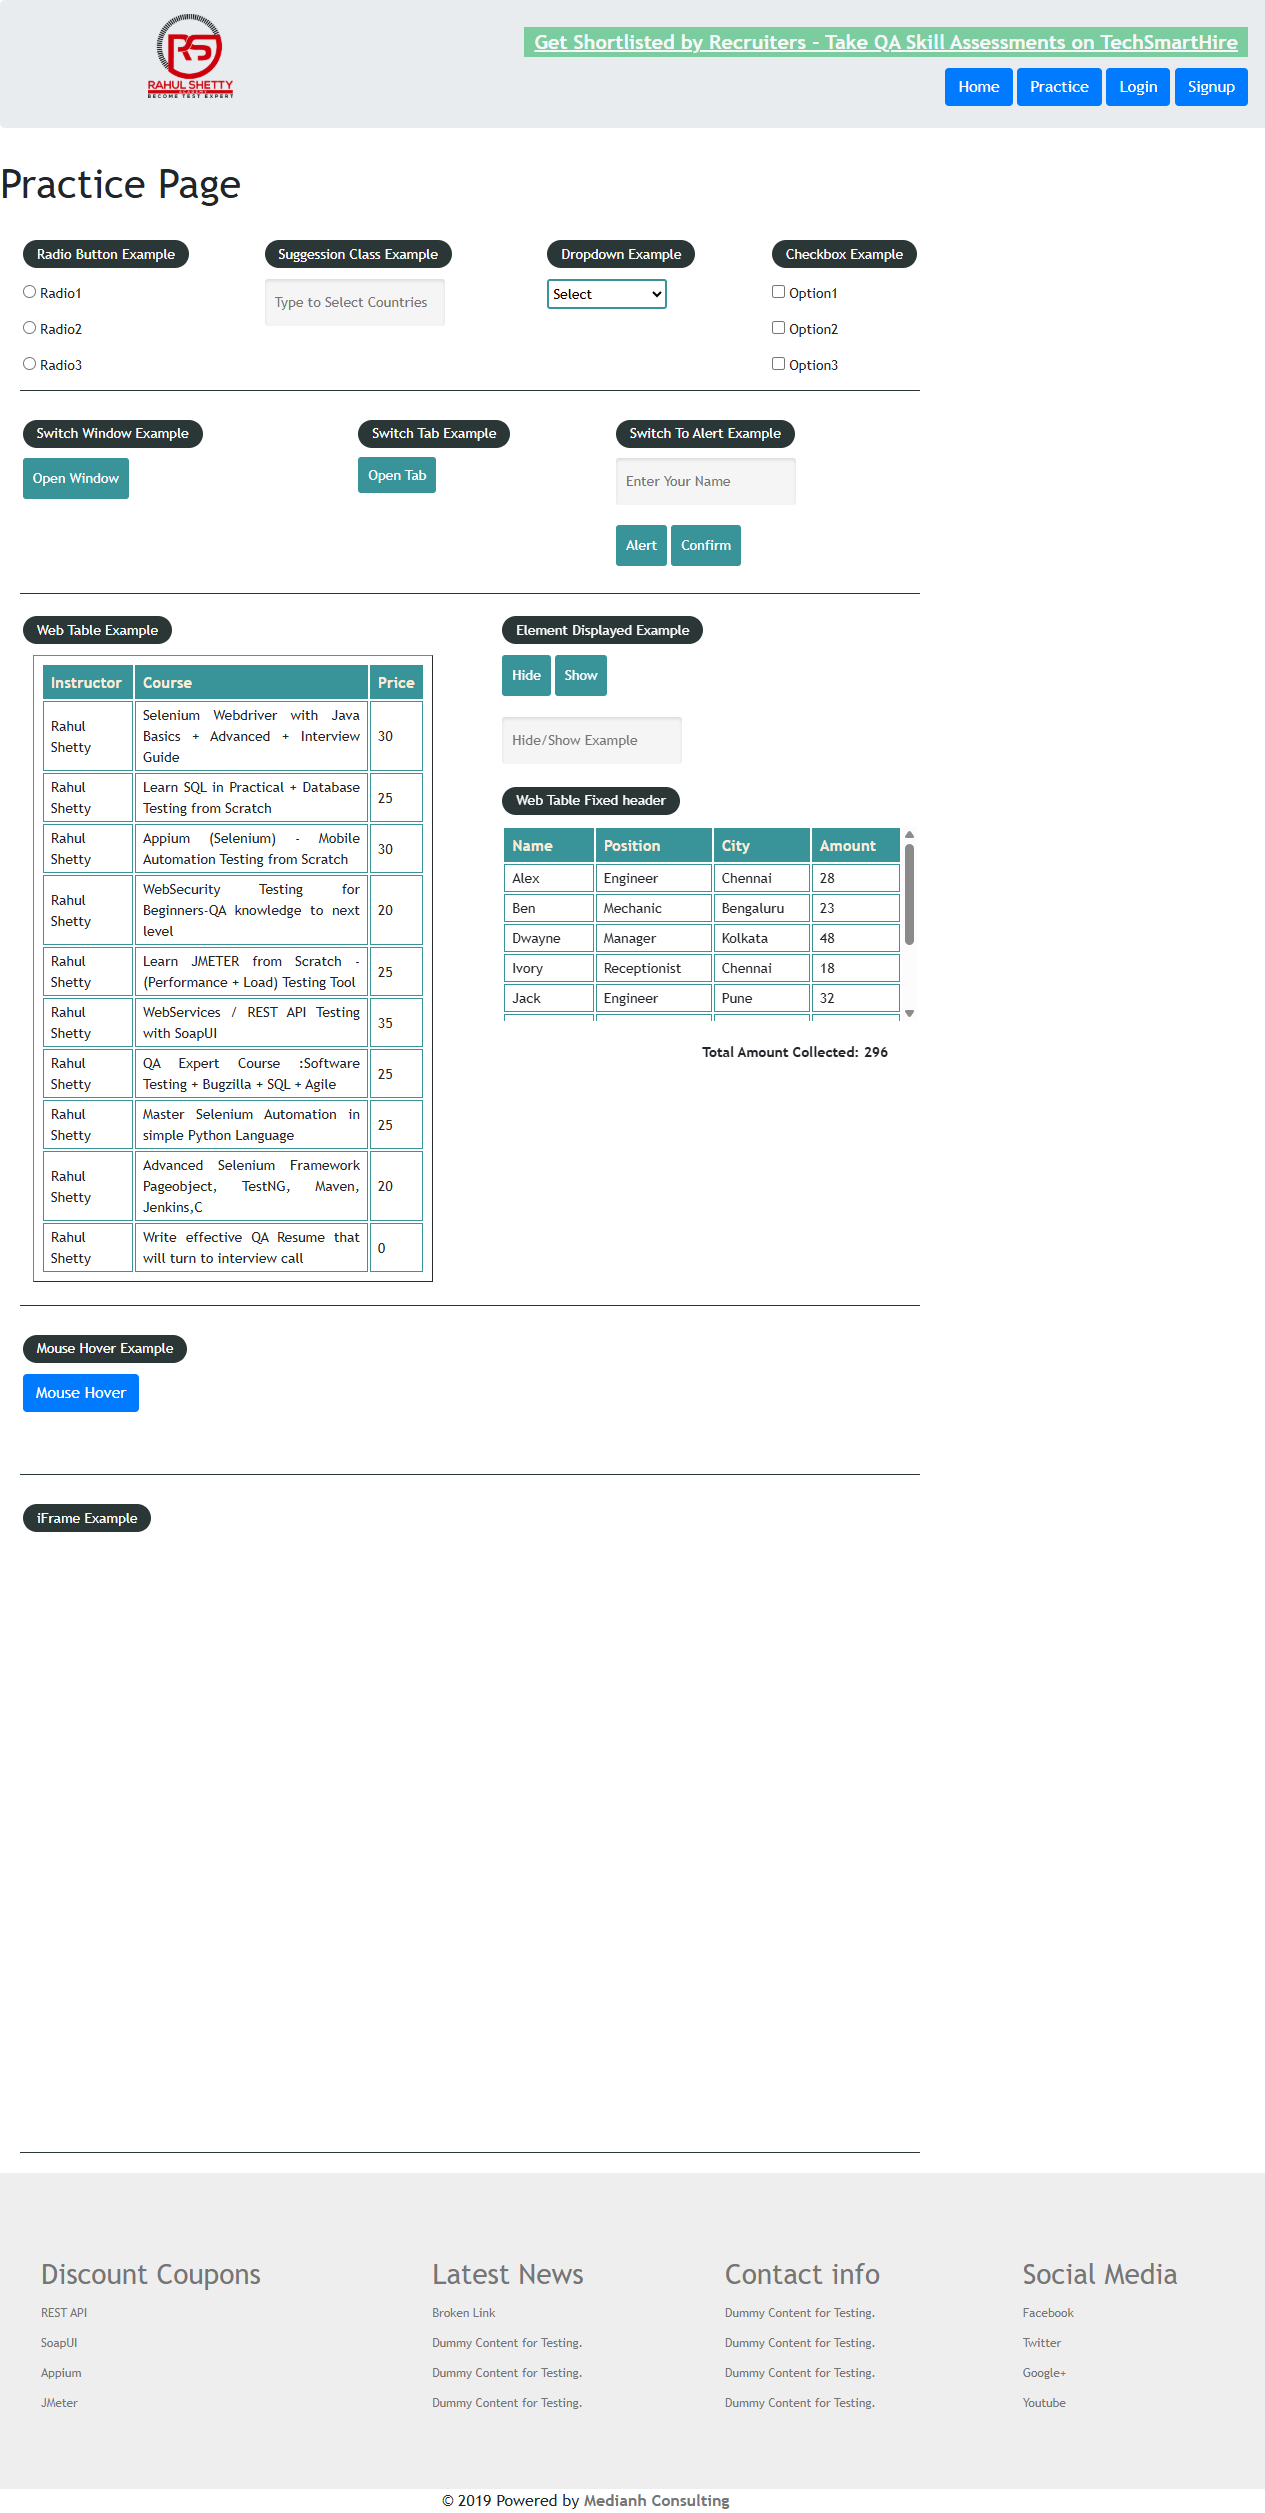
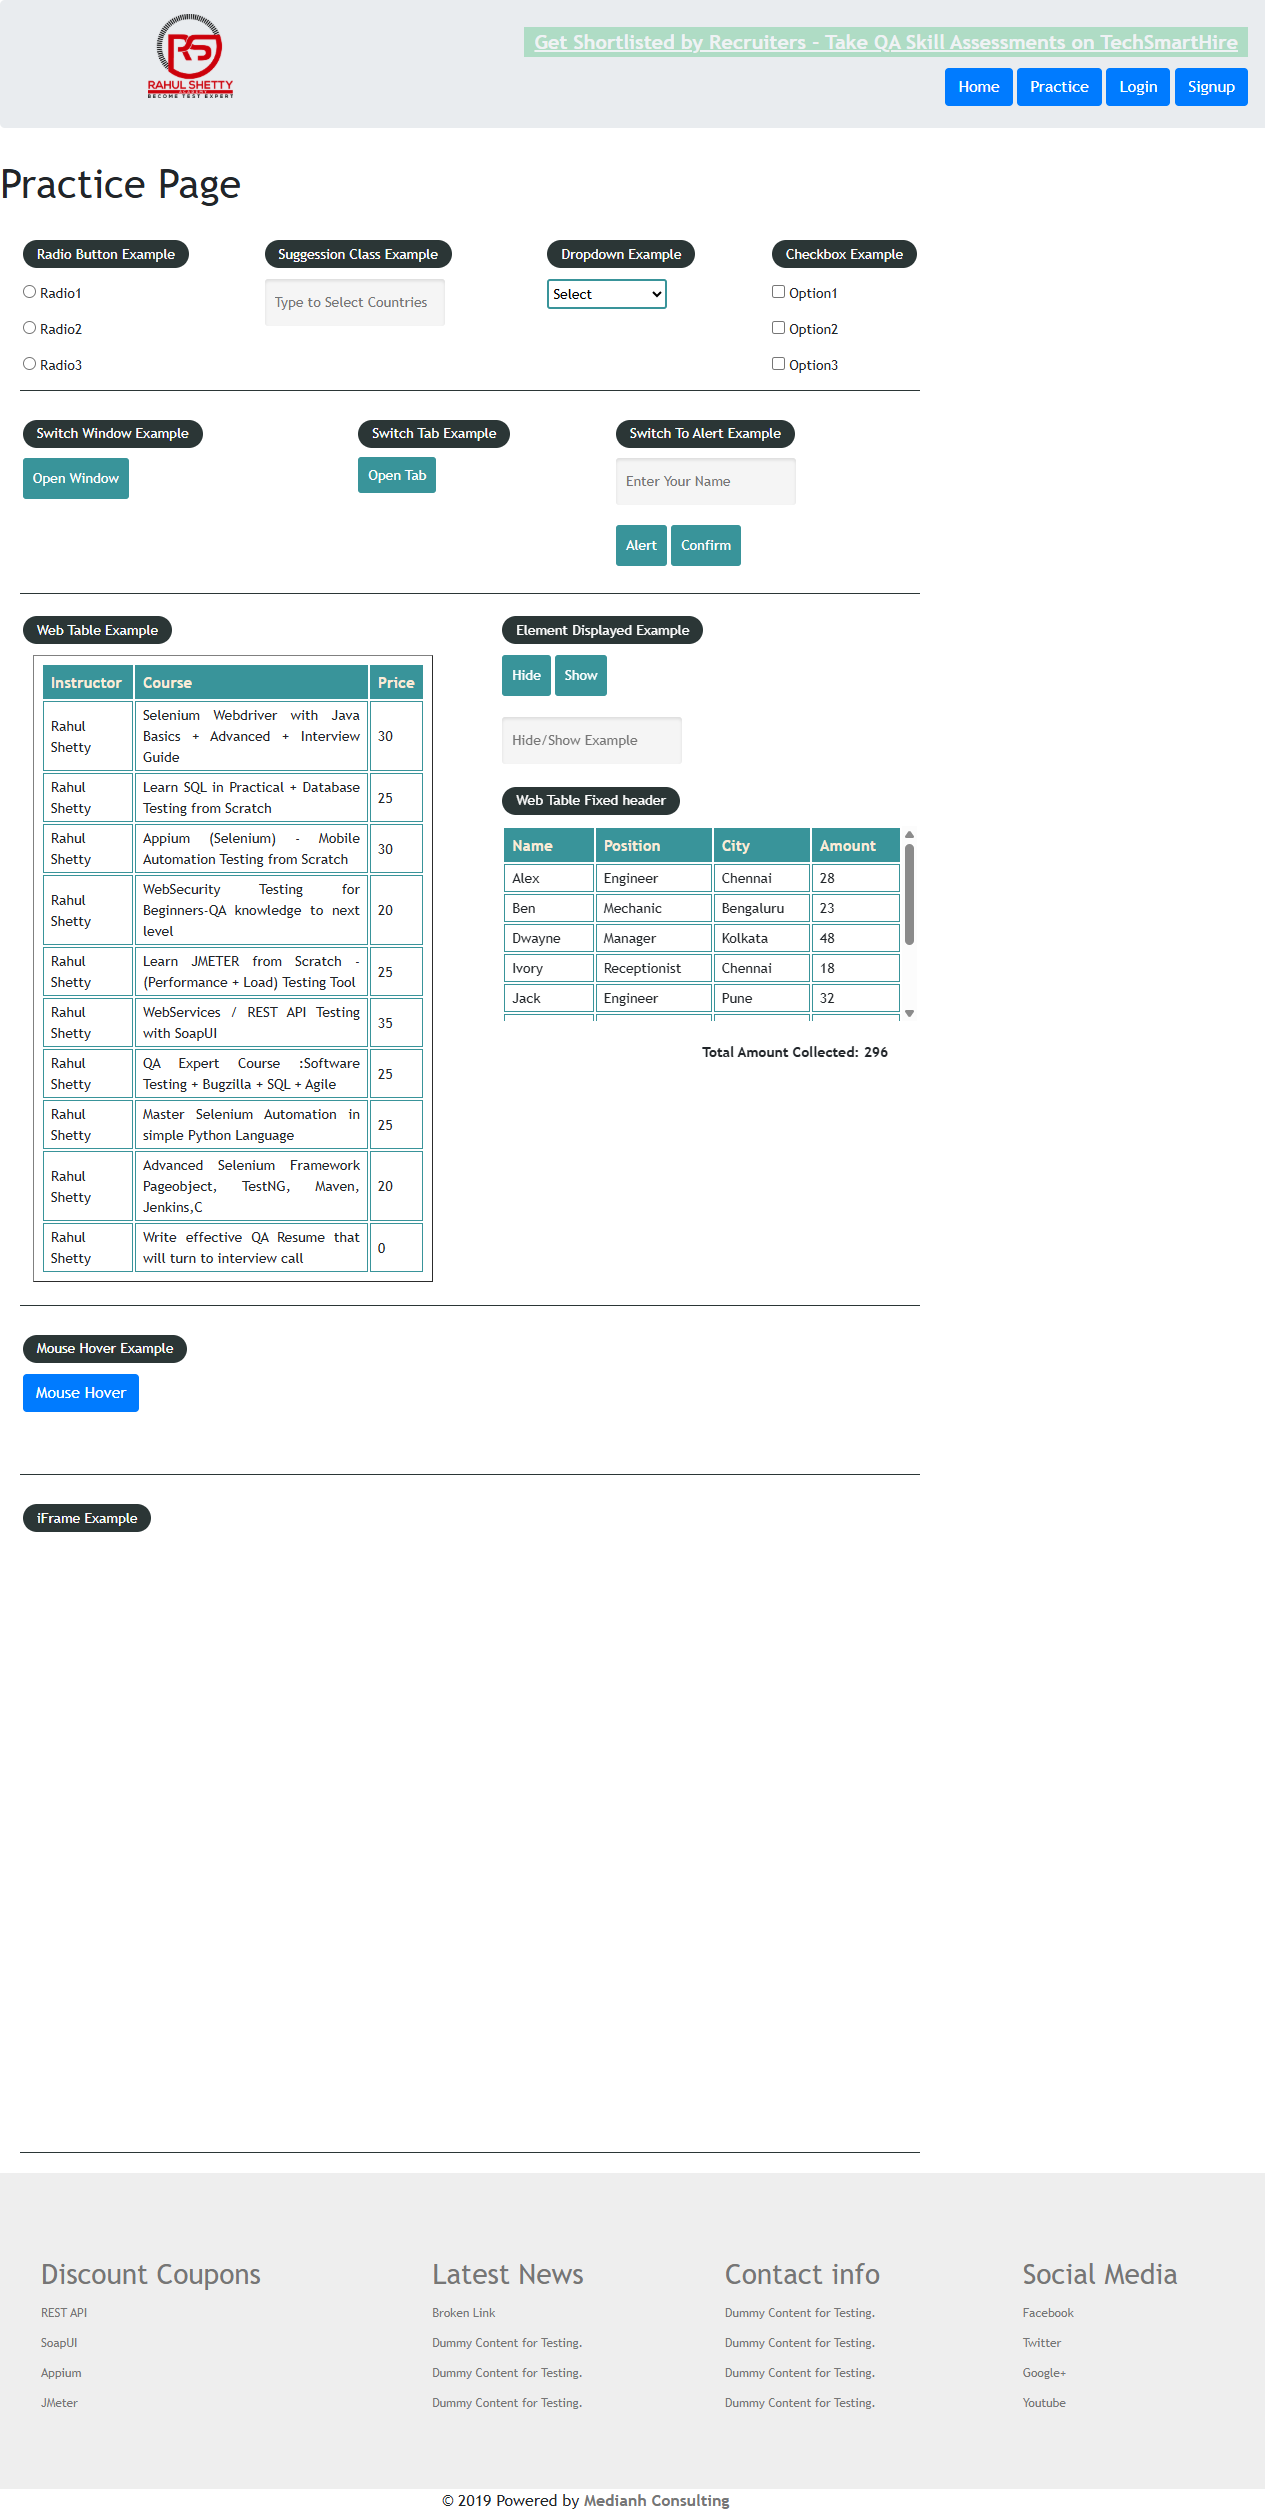
running tests parallely from the same file by extending test option behaviour

Changed region(s): [[0.4008, 0.0, 0.9866, 0.031]]

diff --git a/playwright.config1.js b/playwright.config1.js
@@ -1,4 +1,3 @@
-
 /* to run tjis config file 
 use this command in terminal to run 
 -> npx playwright test ./tests/ClientAppPO.spec.js --config playwright.config1.js --project=safari */
@@ -10,18 +9,19 @@ const { devices } = require("playwright/test");
  * @see https://playwright.dev/docs/test-configuration
  */
 const config = {
-  testDir: "./tests",
-  reporter: "html",
-  timeout: 30 * 1000,
+  testDir: "./tests", // Folder containing all Playwright test files
+  retries:1, // Retry failed tests once
+  reporter: "html", // Generate HTML report after test execution
+  timeout: 30 * 1000, // Maximum time allowed for each test (30 seconds)
   expect: {
-    timeout: 5 * 1000,
+    timeout: 5 * 1000, // Maximum wait time for Playwright assertions
   },
   projects: [
     {
-      name: "safari",
+      name: "safari", // Project name
       use: {
-        browserName: "webkit",
-        headless: true,
+        browserName: "webkit", // Launch WebKit browser (Safari)
+        headless: true, // Run browser in headless mode (without UI)
         trace: "on",  // Records a trace for every test execution
         screenshot: "only-on-failure", // Capture screenshot only when a test fails
         video: "retain-on-failure",  // Record every test, but keep videos only for failed tests
@@ -29,17 +29,17 @@ const config = {
       },
     },
     {
-      name: "chrome",
+      name: "chrome", // Project name
       use: {
-        browserName: "chromium",
-        headless: false,
-        trace: "on",
-        video: "retain-on-failure",
-        screenshot: "only-on-failure",
-        video: "retain-on-failure",
-        ignoreHttpsErros:true, // Ignores SSL/HTTPS certificate errors
-        Permissions:['geolocation'], 
-        viewport : {width:720,height:720} // Overrides the default device viewport size
+        browserName: "chromium", // Launch Chromium browser
+        headless: true, // Run browser with UI
+        trace: "on", // Records a trace for every test execution
+        video: "retain-on-failure", // Record every test, but keep videos only for failed tests
+        screenshot: "only-on-failure", // Capture screenshot only when a test fails
+        video: "retain-on-failure", // Record every test, but keep videos only for failed tests
+        ignoreHttpsErros:true, // Ignore SSL/HTTPS certificate errors
+        Permissions:['geolocation'], // Grant geolocation permission
+        // viewport : {width:720,height:720} // Override the default browser/device viewport size
       },
     },
   ],

diff --git a/tests/MoreValidations.spec.js b/tests/MoreValidations.spec.js
@@ -1,5 +1,18 @@
 const { test, expect } = require('@playwright/test')
 
+/* test.describe.configure({ mode: "parallel" }) instructs Playwright 
+to run all tests within the current file or describe block concurrently 
+instead of sequentially. Each test runs in its own isolated browser context 
+and page, which reduces overall execution time. It should only be used 
+when tests are independent and do not rely on shared state or execution order. */
+
+/* test.describe.configure({ mode: "serial" }) configures all tests 
+in the current describe block or file to run sequentially. If any 
+test fails, Playwright skips the remaining tests in that serial group. 
+It's useful when tests have dependencies, such as multi-step business 
+workflows where each test relies on the successful completion of the previous one. */
+
+test.describe.configure({mode:"parallel"})
 // Test: handling popups and basic navigation/visibility interactions
 test('handling popups', async ({ page }) => {
     // Navigate to a practice page that contains UI controls we'll use
@@ -30,10 +43,13 @@ test('handling popups', async ({ page }) => {
     // Demonstrate hovering over an element (useful for revealing menus/tooltips)
     await page.locator('#mousehover').hover()
 
-    const framePage = page.frameLocator('[name="iframe-name"]')
+    // const framePage = page.frameLocator('[name="iframe-name"]')
 
-    //  await framePage.locator("a[href*='lifetime-access']:visible").click()
-    await framePage.locator("a[href*='lifetime-access']").first().click()
+    // //  await framePage.locator("a[href*='lifetime-access']:visible").click()
+    // await framePage.locator("a[href*='lifetime-access']").first().click()
+    const framePage = page.frameLocator('[name="iframe-name"]');
+
+    await framePage.locator("a[href*='lifetime-access']:visible").click();
      const text = await framePage.locator('.text h2').textContent()
      console.log("number of happy subscribers: "+ text.split(" ")[1])
 })

diff --git a/tests/ClientAppPO.spec.js b/tests/ClientAppPO.spec.js
@@ -37,7 +37,7 @@ for (const data of dataset) {
   });
 }
 
-customtest.only('@Webst Client App login', async ({ page, testDataForOrder }) => {
+customtest('@Webst Client App login', async ({ page, testDataForOrder }) => {
     const poManager = new POManager(page);
 
     // await page.route("**/*.{jpg,png,jpeg}", route=>route.abort())
